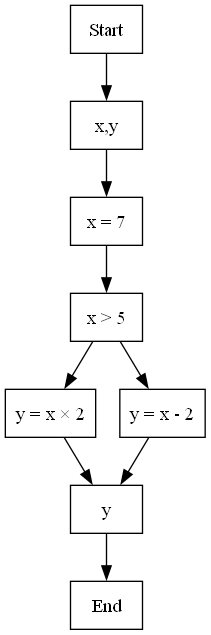
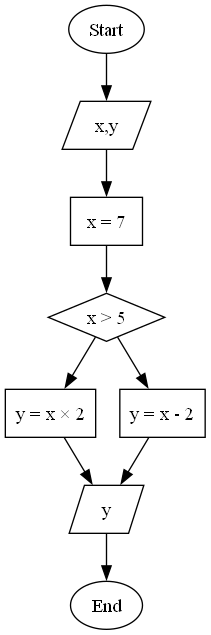
Updated block shapes and improved structure handling

diff --git a/PyChart/BlockDiagram.py b/PyChart/BlockDiagram.py
@@ -113,17 +113,31 @@ class BlockDiagram(ABC):
     def _form_block(self, text='', pos=None, cur_el_id='0', parent_id='0', block_type='none'):
         if pos is None:
             pos = {'x': 0, 'y': 0}
+
         if block_type == 'none':
             block_type = self._get_bd_type_of_line(text.strip().split('\n')[0])
+
         text = text.strip()
+
+        if not text:
+            return None
+
         code = text
         struct_type = self._get_struct_type(code)
         size = BlockDiagram._get_size_of_block(text.split('\n'))
-        if block_type == 'none':
-            return
+
+        shape = "rectangle"  # За замовчуванням
+        if block_type == "Start / end":
+            shape = "oval"
+        elif block_type == "Input / Output":
+            shape = "parallelogram"
+        elif block_type == "Logical Operator":
+            shape = "diamond"
+
         text = self._to_pseudocode(text)
-        if text.strip() == '':
-            return
+
+        if not text.strip():
+            return None
 
         block = {
             "code": code,
@@ -136,6 +150,7 @@ class BlockDiagram(ABC):
             "width": size['width'],
             "height": size['height'],
             "type": block_type,
+            "shape": shape,  # Визначена форма блоку
             "isMenuBlock": False,
             "fontSize": 14,
             "textHeight": 14,

diff --git a/Py2BlockDiagram.py b/Py2BlockDiagram.py
@@ -1,6 +1,5 @@
 from PyChart import BlockDiagram
 
-
 class Py2BlockDiagram(BlockDiagram):
 
     @staticmethod
@@ -27,21 +26,12 @@ class Py2BlockDiagram(BlockDiagram):
 
     @staticmethod
     def _get_bd_type_of_line(line: str) -> str:
-        line = line.strip()
+        line = line.strip().lower()
 
-        if line[0:2] == 'if':
-            return "Condition"
-        elif line[0:4] == 'else':
-            return 'none'
-        elif line[0:4] == 'elif':
-            return "Condition"
-        elif line[0:3] == 'for':
-            return "Loop for"
-        elif line[0:5] == 'while':
-            return "Loop while"
-        elif 'print' in line:
-            return "Input / Output"
-        elif 'return ' in line:
-            return "Start / end"
-        else:
-            return "Block"
+        if line.startswith("if") or line.startswith("elif") or "?" in line:
+            return "Logical Operator"  # Conditional operators
+        elif any(keyword in line for keyword in ["input", "output", "print"]):
+            return "Input / Output"  # Input/Output operations
+        elif line.startswith("start") or line.startswith("end"):
+            return "Start / end"  # Start/End points
+        return "Block"  # General block

diff --git a/JsonToImage.py b/JsonToImage.py
@@ -9,7 +9,7 @@ def json_to_flowchart(json_data, output_file="flowchart"):
     dot = Digraph(format="png")
 
     for block in json_data["blocks"]:
-        dot.node(block["cur_el_id"], block["text"], shape="box")
+        dot.node(block["cur_el_id"], block["text"], shape=block["shape"])
 
     for arrow in json_data["arrows"]:
         dot.edge(
@@ -19,6 +19,7 @@ def json_to_flowchart(json_data, output_file="flowchart"):
 
     dot.render(output_file)
     print(f"Блок-схема збережена як {output_file}.png")
+
 
 
 json_to_flowchart(data)
